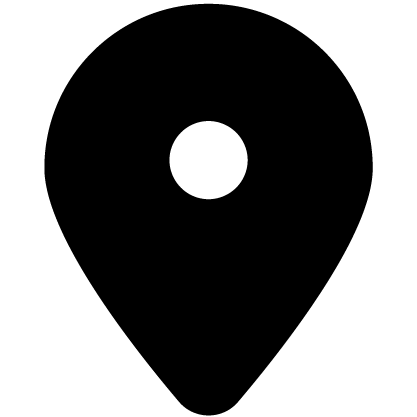
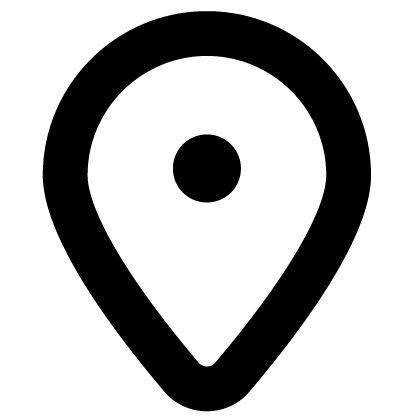
Add files via upload

diff --git a/CSS/style.css b/CSS/style.css
@@ -57,6 +57,74 @@ h1 {
     background-color: #9fd4e3;
 }
 
+
+
+/* ── Spotify desplegable ───────────────────────────── */
+
+.SpotifyCont{
+    width: 90%;
+    max-width: 700px;
+    margin: 40px auto;
+    text-align: center;
+}
+
+#toggleSpotify{
+    display: none;
+}
+
+.BotonSpotify{
+    display: inline-block;
+    background-color: #1DB954;
+    color: white;
+    padding: 16px 28px;
+    border-radius: 12px;
+    cursor: pointer;
+    font-weight: bold;
+    transition: 0.3s;
+    user-select: none;
+}
+
+.BotonSpotify:hover{
+    transform: translateY(-2px);
+    opacity: 0.92;
+}
+
+.BotonSpotify .cerrar{
+    display: none;
+}
+
+#toggleSpotify:checked + .BotonSpotify .abrir{
+    display: none;
+}
+
+#toggleSpotify:checked + .BotonSpotify .cerrar{
+    display: inline;
+}
+
+.SpotifyBox{
+    max-height: 0;
+    overflow: hidden;
+    opacity: 0;
+    margin-top: 0;
+    transition:
+        max-height 0.5s ease,
+        opacity 0.4s ease,
+        margin-top 0.4s ease;
+}
+
+.SpotifyBox iframe{
+    border-radius: 14px;
+}
+
+#toggleSpotify:checked ~ .SpotifyBox{
+    max-height: 300px;
+    opacity: 1;
+    margin-top: 20px;
+}
+
+
+
+
 /* ── Main (hero) ────────────────────────────────────────── */
 main {
     background-color: #1C4D8D;
@@ -410,6 +478,10 @@ footer p {
         text-align: center;
         padding: 18px;
     }
+
+    
+
+
 
     h1 {
         font-size: 18px;